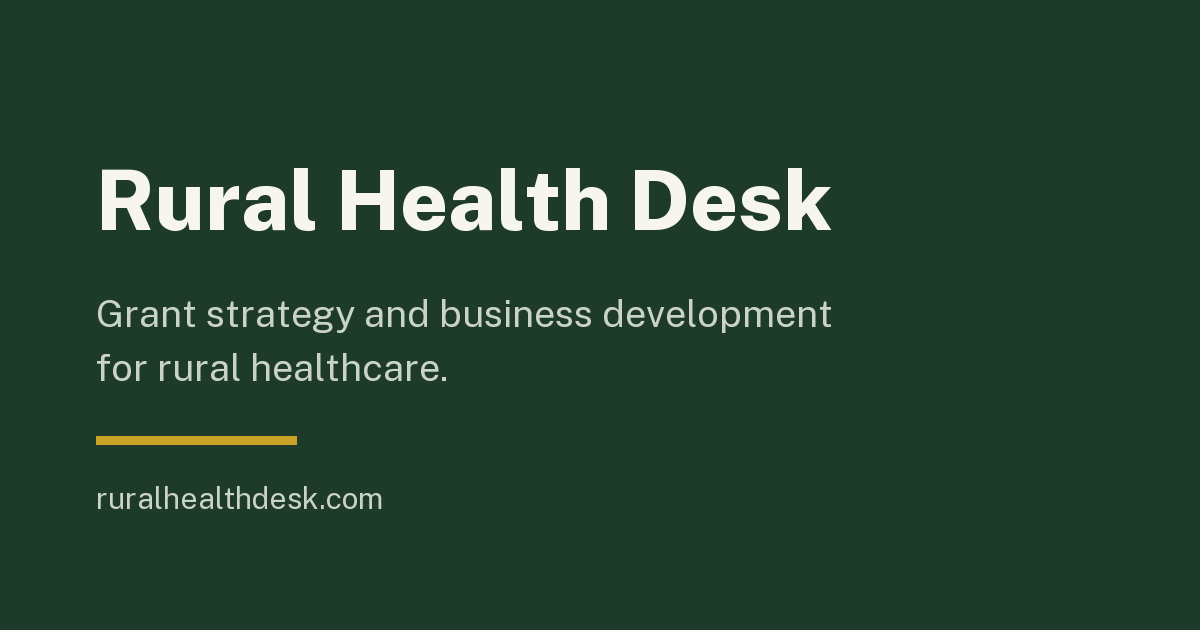
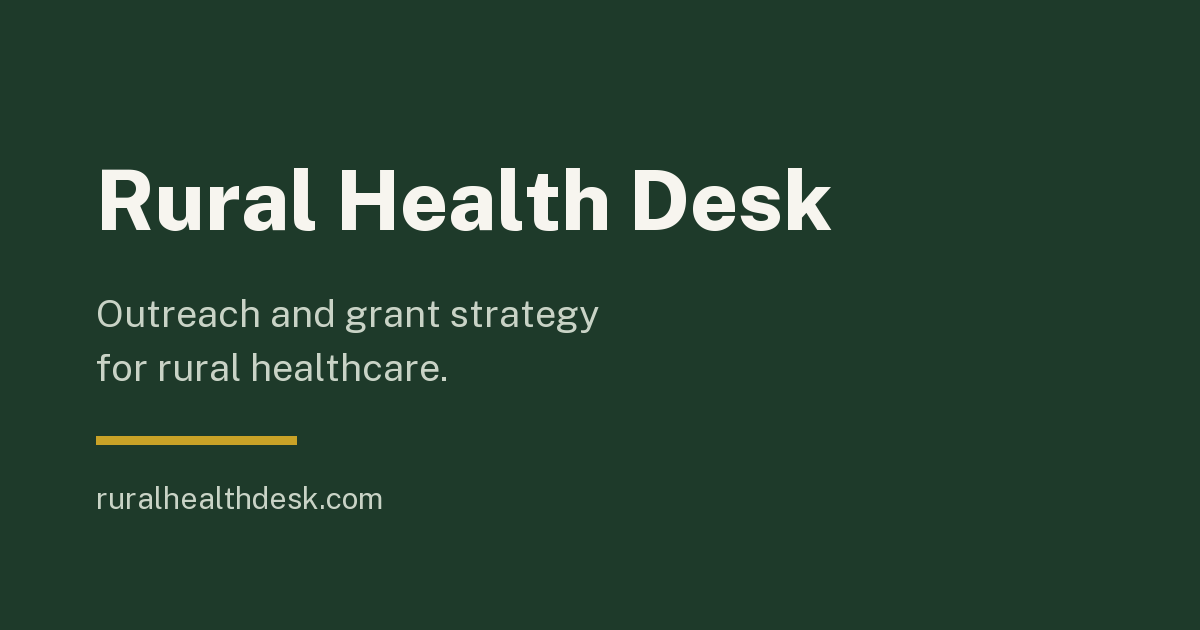
site: refresh approved Rural Health Desk page and verified counts

Changed region(s): [[0.0925, 0.4825, 0.7092, 0.5429]]

diff --git a/index.html b/index.html
@@ -2,20 +2,20 @@
 <html lang="en"><head>
 <meta charset="utf-8"><meta name="viewport" content="width=device-width,initial-scale=1">
 <meta name="color-scheme" content="light"><meta name="theme-color" content="#193B30">
-<title>Rural healthcare grant strategy and business development | Rural Health Desk</title><meta name="description" content="Grant strategy and business development for rural healthcare: opportunity research, outreach, meeting preparation, proposals and complete grant applications.">
+<title>Rural healthcare outreach and grant strategy | Rural Health Desk</title><meta name="description" content="Business development and outreach for healthcare companies, with grant strategy and application support. Engage Rural Health Desk for outreach, grants or both.">
 <meta name="author" content="Justin Brilliant"><link rel="canonical" href="https://ruralhealthdesk.com/">
 <meta property="og:site_name" content="Rural Health Desk"><meta property="og:locale" content="en_US">
 <meta property="og:type" content="website"><meta property="og:url" content="https://ruralhealthdesk.com/">
-<meta property="og:title" content="Rural Health Desk"><meta property="og:description" content="Grant strategy and business development for rural healthcare: opportunity research, outreach, meeting preparation, proposals and complete grant applications.">
+<meta property="og:title" content="Rural Health Desk"><meta property="og:description" content="Business development and outreach for healthcare companies, with grant strategy and application support. Engage Rural Health Desk for outreach, grants or both.">
 <meta property="og:image" content="https://ruralhealthdesk.com/assets/og-card.png">
 <meta property="og:image:type" content="image/png"><meta property="og:image:width" content="1200">
-<meta property="og:image:height" content="630"><meta property="og:image:alt" content="Rural Health Desk: grant strategy and business development for rural healthcare.">
+<meta property="og:image:height" content="630"><meta property="og:image:alt" content="Rural Health Desk: outreach and grant strategy for rural healthcare.">
 <meta name="twitter:card" content="summary_large_image">
 <link rel="preload" href="/assets/fonts/public-sans.woff2" as="font" type="font/woff2" crossorigin>
 <link rel="preload" href="/assets/fonts/literata-400.woff2" as="font" type="font/woff2" crossorigin>
 <link rel="icon" href="/assets/favicon.svg" type="image/svg+xml"><link rel="icon" href="/favicon.ico" sizes="32x32">
 <link rel="apple-touch-icon" href="/assets/apple-touch-icon.png"><link rel="manifest" href="/assets/manifest.webmanifest">
-<script type="application/ld+json">{"@context": "https://schema.org", "@type": "Organization", "name": "Rural Health Desk", "url": "https://ruralhealthdesk.com", "email": "justin@ruralhealthdesk.com", "telephone": "+18479891727", "description": "Grant strategy and business development for rural healthcare: opportunity research, outreach, meeting preparation, proposals and complete grant applications.", "founder": {"@type": "Person", "name": "Justin Brilliant"}}</script><style>@font-face{font-family:'Public Sans';font-style:normal;font-weight:400 800;font-display:swap;src:url('/assets/fonts/public-sans.woff2') format('woff2')}
+<script type="application/ld+json">{"@context": "https://schema.org", "@type": "Organization", "name": "Rural Health Desk", "url": "https://ruralhealthdesk.com", "email": "justin@ruralhealthdesk.com", "telephone": "+18479891727", "description": "Business development and outreach for healthcare companies, with grant strategy and application support. Engage Rural Health Desk for outreach, grants or both.", "founder": {"@type": "Person", "name": "Justin Brilliant"}}</script><style>@font-face{font-family:'Public Sans';font-style:normal;font-weight:400 800;font-display:swap;src:url('/assets/fonts/public-sans.woff2') format('woff2')}
 @font-face{font-family:Literata;font-style:normal;font-weight:400;font-display:swap;src:url('/assets/fonts/literata-400.woff2') format('woff2')}
 :root{--field:#193B30;--deep:#122D25;--paper:#FAF9F5;--white:#FFFEFA;--ink:#19382D;--muted:#5E685F;--wheat:#E4C66A;--line:#D7DCD2;--pale:#EFF1E9;--sans:'Public Sans',Arial,sans-serif;--serif:Literata,Georgia,serif;--gutter:clamp(22px,4vw,48px);--shell:1120px}
 *{box-sizing:border-box}
@@ -242,9 +242,9 @@ img{display:block;max-width:100%;height:auto}
 <section class="hero" aria-labelledby="hero-title"><div class="shell">
 <div class="hero-grid"><div class="hero-copy">
 <p class="scope-label">Rural Health Desk</p>
-<h1 id="hero-title">Grant strategy and business development for <span>rural healthcare.</span></h1>
-<p class="hero-intro">Rural Health Desk helps healthcare companies pursue opportunities in the CMS Rural Health Transformation Program, alongside broader business development and outreach.</p>
-<p class="hero-detail">From identifying the right organizations to preparing a proposal or complete grant application, the work is tailored to your offering, priorities and existing relationships.</p>
+<h1 id="hero-title">Outreach and grant strategy for <span>rural healthcare.</span></h1>
+<p class="hero-intro">Rural Health Desk provides business development and outreach for healthcare companies, alongside grant strategy for the CMS Rural Health Transformation Program.</p>
+<p class="hero-detail">Engagements can focus on outreach, grant support or both. The work reflects your offering, priorities and existing relationships.</p>
 <div class="hero-actions"><a class="button button-wheat" href="mailto:justin@ruralhealthdesk.com?subject=Discussing%20rural%20growth%20priorities">Discuss your priorities</a><a class="hero-secondary" href="#desk">Explore the service</a></div>
 </div></div>
 </div></section>
@@ -255,7 +255,7 @@ img{display:block;max-width:100%;height:auto}
 <div class="deliverables">
 <article><div class="deliverable-heading"><span aria-hidden="true">01</span><h3>Assess the opportunities</h3></div><p>Identify organizations whose needs fit your offering. Research their existing providers and purchasing status. For funded projects or prospective applications, assess fit against the grant requirements.</p></article>
 <article><div class="deliverable-heading"><span aria-hidden="true">02</span><h3>Conduct outreach</h3></div><p>Identify project leaders and purchasing decision-makers, write and conduct agreed outreach, manage follow-up and arrange meetings with interested organizations.</p></article>
-<article><div class="deliverable-heading"><span aria-hidden="true">03</span><h3>Prepare for every meeting</h3></div><p>Receive a tailored brief on the organization, attendees and proposed partnership, with relevant funding rules, purchasing conditions, recommended talking points and questions to resolve.</p></article>
+<article><div class="deliverable-heading"><span aria-hidden="true">03</span><h3>Prepare for every meeting</h3></div><p>Receive a tailored brief on the organization, attendees and proposed partnership, with recommended talking points, questions to resolve and any relevant funding or purchasing requirements.</p></article>
 <article><div class="deliverable-heading"><span aria-hidden="true">04</span><h3>Develop the proposal or application</h3></div><p>Develop the commercial scope and proposal, or prepare the complete grant application: narrative, workplan, budget, partner commitments and attachments. Your team approves its commitments; the applicant approves and submits the application.</p></article>
 <div class="progress-note"><h3>Clear progress and next steps</h3><p>A shared CRM records research, outreach, responses and meetings, with an owner and target date for each next step. Regular reviews address progress and decisions. Poor-fit opportunities are flagged early, with the reasoning explained.</p></div>
 </div></div></section>

diff --git a/404.html b/404.html
@@ -9,7 +9,7 @@
 <meta property="og:title" content="Rural Health Desk"><meta property="og:description" content="Find Rural Health Desk and contact Justin Brilliant.">
 <meta property="og:image" content="https://ruralhealthdesk.com/assets/og-card.png">
 <meta property="og:image:type" content="image/png"><meta property="og:image:width" content="1200">
-<meta property="og:image:height" content="630"><meta property="og:image:alt" content="Rural Health Desk: grant strategy and business development for rural healthcare.">
+<meta property="og:image:height" content="630"><meta property="og:image:alt" content="Rural Health Desk: outreach and grant strategy for rural healthcare.">
 <meta name="twitter:card" content="summary_large_image">
 <link rel="preload" href="/assets/fonts/public-sans.woff2" as="font" type="font/woff2" crossorigin>
 <link rel="preload" href="/assets/fonts/literata-400.woff2" as="font" type="font/woff2" crossorigin>
